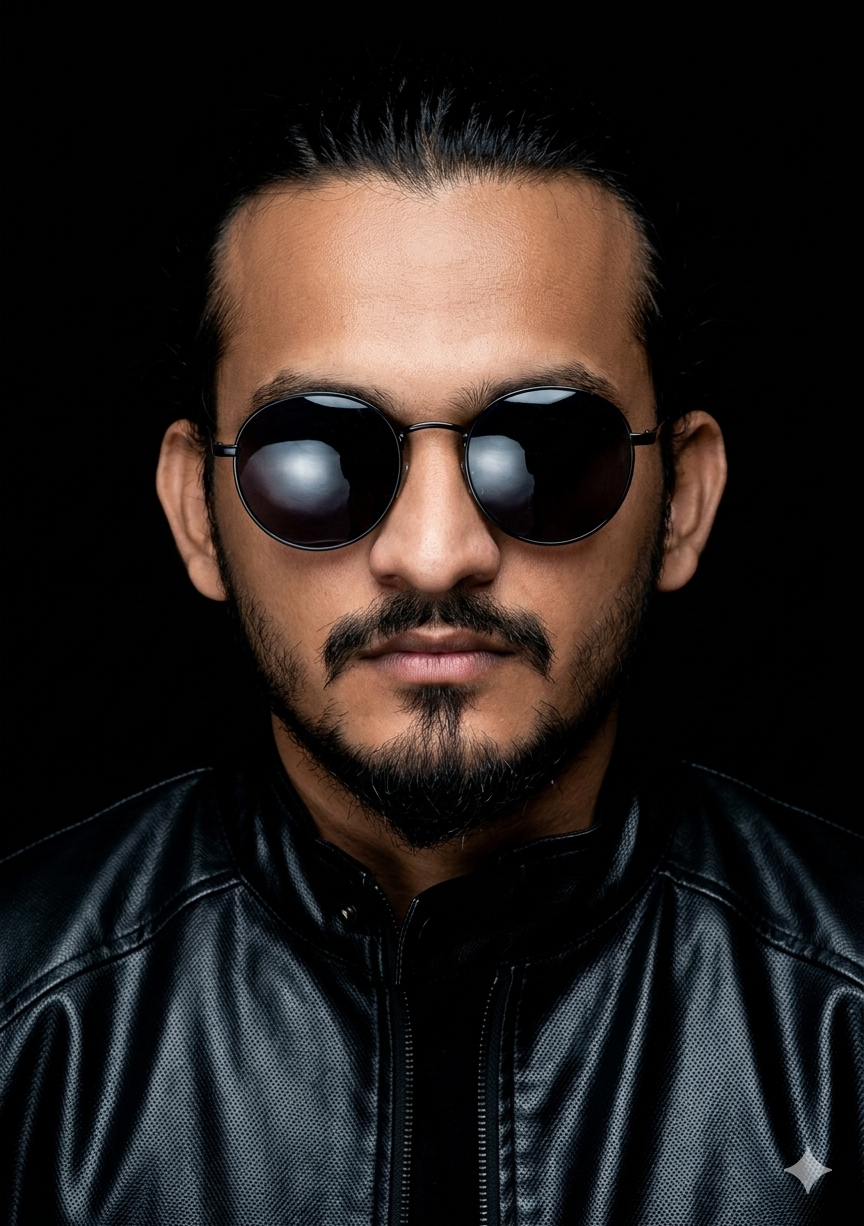
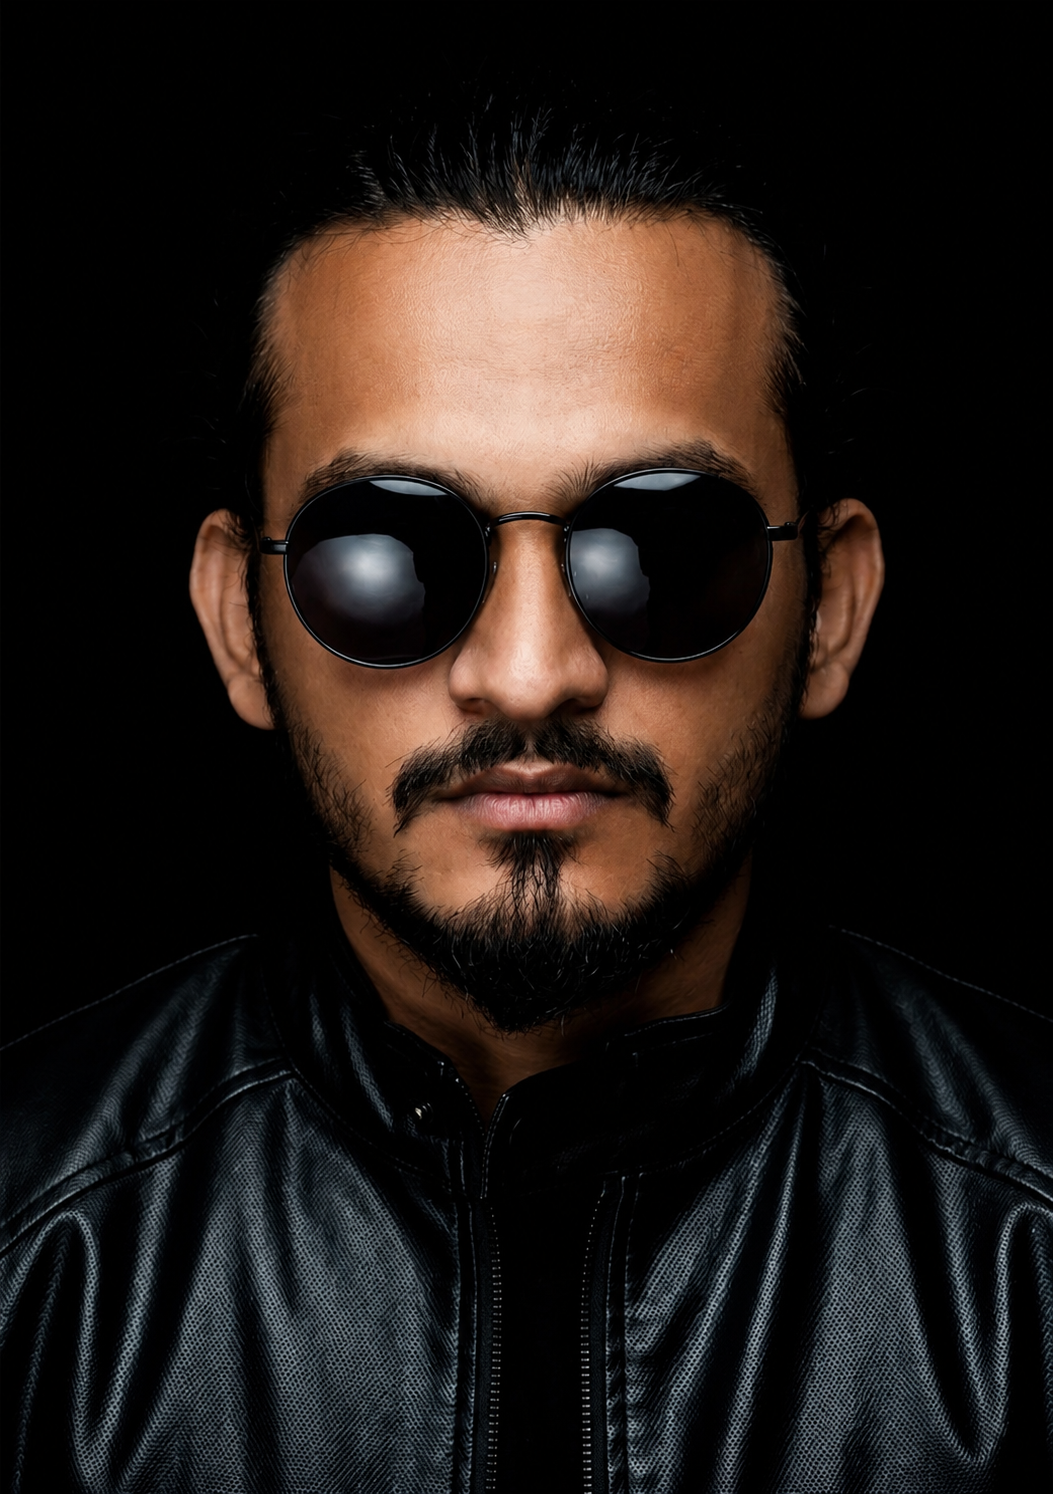
Update hero background and apply black & white mobile-friendly theme

diff --git a/src/components/HeroSection.tsx b/src/components/HeroSection.tsx
@@ -13,7 +13,7 @@ const HeroSection: React.FC = () => {
       <div className="w-full flex justify-between items-center z-40 relative">
         <div className="pill-badge cursor-pointer hover:bg-[#333] transition border border-gray-800">
           <div className="w-6 h-6 rounded-full border border-gray-500 flex items-center justify-center overflow-hidden">
-            <div className="w-3 h-3 bg-[#FF5C00] rounded-full opacity-50"></div>
+            <div className="w-3 h-3 bg-white rounded-full opacity-50"></div>
           </div>
           <span className="font-semibold text-sm tracking-wide ml-2">{profile.shortName}</span>
         </div>
@@ -31,20 +31,20 @@ const HeroSection: React.FC = () => {
           {/* Dropdown Menu */}
           {isMenuOpen && (
             <div className="absolute top-16 right-0 bg-[#1a1a1a] border border-gray-800 rounded-3xl p-6 flex flex-col gap-5 shadow-2xl z-40 min-w-[200px] animate-in fade-in slide-in-from-top-4 duration-200">
-              <a href="#about" onClick={() => setIsMenuOpen(false)} className="text-gray-300 hover:text-[#FF5C00] font-medium transition text-lg">About</a>
-              <a href="#experience" onClick={() => setIsMenuOpen(false)} className="text-gray-300 hover:text-[#FF5C00] font-medium transition text-lg">Experience</a>
-              <a href="#projects" onClick={() => setIsMenuOpen(false)} className="text-gray-300 hover:text-[#FF5C00] font-medium transition text-lg">Projects</a>
-              <a href="#testimonials" onClick={() => setIsMenuOpen(false)} className="text-gray-300 hover:text-[#FF5C00] font-medium transition text-lg">Testimonials</a>
+              <a href="#about" onClick={() => setIsMenuOpen(false)} className="text-gray-300 hover:text-white font-medium transition text-lg">About</a>
+              <a href="#experience" onClick={() => setIsMenuOpen(false)} className="text-gray-300 hover:text-white font-medium transition text-lg">Experience</a>
+              <a href="#projects" onClick={() => setIsMenuOpen(false)} className="text-gray-300 hover:text-white font-medium transition text-lg">Projects</a>
+              <a href="#testimonials" onClick={() => setIsMenuOpen(false)} className="text-gray-300 hover:text-white font-medium transition text-lg">Testimonials</a>
             </div>
           )}
         </div>
       </div>
 
       {/* Main Hero Content (Middle) */}
-      <div className="flex-1 w-full flex flex-col md:flex-row items-center justify-between z-20 mt-10 md:mt-0 relative max-w-7xl mx-auto">
+      <div className="flex-1 w-full flex flex-col md:flex-row items-start md:items-center justify-start md:justify-between z-30 mt-8 md:mt-0 relative max-w-7xl mx-auto gap-8 md:gap-0">
         
         {/* Left Column Text */}
-        <div className="w-full md:w-1/3 flex flex-col items-start gap-6 md:-mt-32 z-20 relative">
+        <div className="w-full md:w-1/3 flex flex-col items-start gap-4 md:gap-6 md:-mt-32 z-30 relative">
           <div className="pill-badge text-xs font-semibold tracking-wide text-gray-300 shadow-xl border border-gray-800">
             <div className="pill-badge-dot"></div>
             Available for Work
@@ -56,10 +56,9 @@ const HeroSection: React.FC = () => {
 
         {/* 
           Center Image Container 
-          Restored to absolute positioning with z-10 so it overlaps the giant text below.
-          Since the background is now pure black, the photo's black background disappears!
+          Positioned behind the normal text but in front of the giant background text.
         */}
-        <div className="absolute left-1/2 -translate-x-1/2 bottom-0 h-[65vh] md:h-[80vh] w-full max-w-[600px] z-10 flex justify-center items-end pointer-events-none">
+        <div className="absolute left-1/2 -translate-x-1/2 bottom-0 h-[50vh] md:h-[80vh] w-full max-w-[600px] z-10 flex justify-center items-end pointer-events-none">
           <img 
             src="/assets/hero-bg.png" 
             alt={profile.name} 
@@ -69,21 +68,21 @@ const HeroSection: React.FC = () => {
         </div>
 
         {/* Right Column Text */}
-        <div className="w-full md:w-1/3 flex flex-col items-start md:items-start text-left gap-6 md:-mt-32 z-20 mt-64 md:mt-0 relative pl-0 md:pl-12">
+        <div className="w-full md:w-1/3 flex flex-col items-start md:items-start text-left gap-6 md:-mt-32 z-30 mt-0 relative pl-0 md:pl-12">
           <p className="text-gray-300 text-sm md:text-base leading-relaxed max-w-sm drop-shadow-md">
             Hi, I'm {profile.name} – a creative video editor and DP passionate about crafting visually compelling stories that connect and convert.
           </p>
           
-          <a href="#projects" className="accent-btn flex items-center gap-4 px-6 py-2 pr-2 font-semibold text-sm shadow-lg shadow-[#FF5C00]/20">
+          <a href="#projects" className="accent-btn flex items-center gap-4 px-6 py-2 pr-2 font-semibold text-sm shadow-lg shadow-white/20">
             See my works
-            <span className="w-8 h-8 bg-white text-[#FF5C00] rounded-full flex items-center justify-center font-bold">→</span>
+            <span className="w-8 h-8 bg-black text-white rounded-full flex items-center justify-center font-bold">→</span>
           </a>
         </div>
 
       </div>
 
-      {/* Giant Overlapping Text (Foreground z-20 so it overlaps the photo) */}
-      <div className="w-full absolute bottom-0 left-0 flex justify-center items-end z-20 pointer-events-none pb-4">
+      {/* Giant Overlapping Text (Background z-0 so it is behind the photo) */}
+      <div className="w-full absolute bottom-0 left-0 flex justify-center items-end z-0 pointer-events-none pb-4 opacity-50 md:opacity-100">
         <h1 
           className="font-bold text-white leading-none text-center w-full"
           style={{ fontSize: '13vw', letterSpacing: '-0.02em', whiteSpace: 'nowrap' }}

diff --git a/src/index.css b/src/index.css
@@ -20,8 +20,8 @@ body {
 }
 
 .accent-btn {
-  background-color: #FF5C00;
-  color: white;
+  background-color: #ffffff;
+  color: #000000;
   transition: opacity 0.3s, transform 0.2s;
   border-radius: 9999px; /* Pill shape */
 }
@@ -43,7 +43,7 @@ body {
 .pill-badge-dot {
   width: 8px;
   height: 8px;
-  background-color: #FF5C00;
+  background-color: #ffffff;
   border-radius: 50%;
 }
 

diff --git a/src/components/ExperienceSection.tsx b/src/components/ExperienceSection.tsx
@@ -26,7 +26,7 @@ const ExperienceSection: React.FC = () => {
               <ul className="space-y-3">
                 {exp.highlights.slice(0, 3).map((highlight, i) => (
                   <li key={i} className="flex items-start text-gray-500">
-                    <span className="mr-3 text-[#FF5C00] mt-1">▹</span>
+                    <span className="mr-3 text-white mt-1">▹</span>
                     <span>{highlight}</span>
                   </li>
                 ))}

diff --git a/src/components/ProjectCard.tsx b/src/components/ProjectCard.tsx
@@ -16,7 +16,7 @@ const ProjectCard: React.FC<ProjectCardProps> = ({ project, index }) => {
               {String(index + 1).padStart(2, '0')}
             </span>
             {project.highlight && (
-              <span className="px-3 py-1 bg-[#FF5C00] text-white text-[10px] font-bold uppercase rounded-full tracking-wide">
+              <span className="px-3 py-1 bg-white text-black text-[10px] font-bold uppercase rounded-full tracking-wide">
                 Featured
               </span>
             )}

diff --git a/src/components/TestimonialsSection.tsx b/src/components/TestimonialsSection.tsx
@@ -10,7 +10,7 @@ const TestimonialsSection: React.FC = () => {
   return (
     <section className="py-24 bg-[#0a0a0a] border-t border-gray-900 overflow-hidden">
       <div className="max-w-6xl mx-auto px-6 mb-12 flex items-center justify-center gap-4">
-        <MessageSquareQuote size={32} className="text-[#FF5C00]" />
+        <MessageSquareQuote size={32} className="text-white" />
         <h2 className="text-3xl font-bold uppercase tracking-widest text-gray-200">Testimonials</h2>
       </div>
       